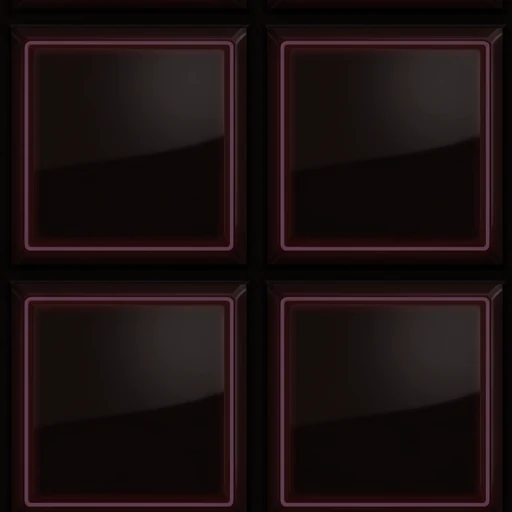
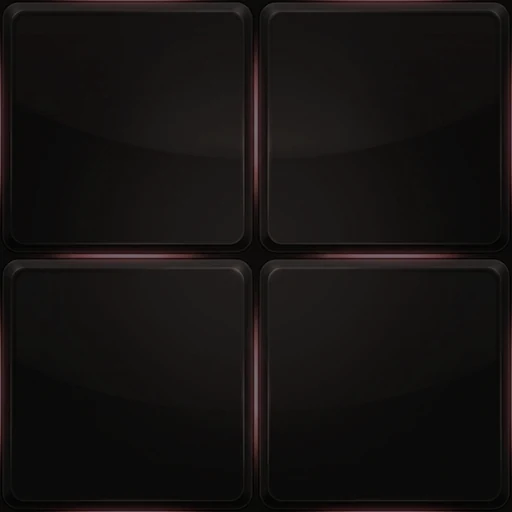
feat: simpler three-shape map, faster tanks and fire rate, new floor art
Map: 10 obstacle rects -> 3 (centre block + one bar of cover per tower). The
corner walls and wall nubs produced collisions you could not see coming on a map
small enough to read in a glance. Still point-symmetric through the centre (the
rune picker mirrors spots through it) and both side lanes run the full height.
Bot waypoints, the fallback RUNE_SPOTS and every smoke coordinate move with it.

Feel: TANK_MAX_SPEED 205 -> 265 px/s (accel/brake scaled with it so the ramp
stays ~79ms), FIRE_COOLDOWN 1.0 -> 0.7s. A clean 3-shell duel is now ~1.4s.

Art: new floor plates generated from the listing icon, 2x2 per tile at 320 world
px so a plate is three tank-widths; red is the blue tile hue-rotated, so the two
halves share one structure. Obstacles darkened to stay behind the sprites.

WIRE_VERSION 3: the map lives in the shared sim, so a stale client would
mispredict every wall. Old pages reload instead.

smoke: the death probe now paths around cover and only fires with line of sight
— driving straight and holding the trigger only ever worked on an empty field.

Changed region(s): [[0.0, 0.0625, 1.0, 1.0], [0.0, 0.0, 1.0, 0.0312]]

diff --git a/server/smoke.js b/server/smoke.js
@@ -432,6 +432,23 @@ async function checkNoRevives(port) {
   // whether bots kill each other inside any given 15s is a coin flip (3-shell
   // kills, 1s cooldown, 5s respawns, shields), and "0 deaths observed" made the
   // whole check vacuous — it failed intermittently for that reason alone.
+  // The probe has to be able to FIGHT on the real map: driving straight at an
+  // enemy and holding the trigger works only on an empty field. With cover in
+  // the middle it grinds into the block and feeds it shells, and the phase then
+  // fails for a reason that has nothing to do with the contract under test.
+  const { OBSTACLES } = await import('../client/shared/sim.js');
+  const losClear = (x1, y1, x2, y2, pad) => {
+    const d = Math.hypot(x2 - x1, y2 - y1);
+    const steps = Math.max(2, Math.ceil(d / 12));
+    for (let i = 0; i <= steps; i++) {
+      const t = i / steps, x = x1 + (x2 - x1) * t, y = y1 + (y2 - y1) * t;
+      for (const r of OBSTACLES) {
+        if (x > r.x - pad && x < r.x + r.w + pad && y > r.y - pad && y < r.y + r.h + pad) return false;
+      }
+    }
+    return true;
+  };
+  let strafeDir = 1, strafeFlipAt = 0;
   const minMs = 12000, maxMs = 40000;
   const t0 = Date.now();
   while (Date.now() - t0 < maxMs && (Date.now() - t0 < minMs || deathsSeen === 0)) {
@@ -448,12 +465,23 @@ async function checkNoRevives(port) {
         if (d < best) { best = d; tx = st.x; ty = st.y; }
       }
       const aim = best < Infinity ? Math.atan2(ty - game.me.y, tx - game.me.x) : 0;
-      const drive = best < Infinity && best > 220;
-      game.tick({
-        moveX: drive ? Math.cos(aim) : 0,
-        moveY: drive ? Math.sin(aim) : 0,
-        firing: best < Infinity,
-      }, aim);
+      // Only shoot when the shell can actually get there — shells die on the
+      // first wall they touch, so blind fire just empties the magazine into
+      // the centre block.
+      const clear = best < Infinity && losClear(game.me.x, game.me.y, tx, ty, 8);
+      let mx = 0, my = 0;
+      if (best < Infinity) {
+        const ax = Math.cos(aim), ay = Math.sin(aim);
+        if (!clear) {
+          // Wall in the way: slide along it to find an angle instead of pushing
+          // into it. The direction flips periodically so a bad guess costs a
+          // second or two rather than the whole window.
+          if (Date.now() > strafeFlipAt) { strafeDir = -strafeDir; strafeFlipAt = Date.now() + 1500; }
+          mx = -ay * strafeDir + ax * 0.35;
+          my = ax * strafeDir + ay * 0.35;
+        } else if (best > 220) { mx = ax; my = ay; }
+      }
+      game.tick({ moveX: mx, moveY: my, firing: clear }, aim);
     }
     const renderMs = game.frame(DT);
     for (const st of game.remoteStates(renderMs, DT)) {
@@ -650,7 +678,7 @@ async function checkRuneSpots() {
   check(!runeSpotClear(OBSTACLES[0].x + OBSTACLES[0].w / 2, OBSTACLES[0].y + OBSTACLES[0].h / 2),
     'a spot inside the centre block is rejected');
   check(!runeSpotClear(TOWERS[0].x, TOWERS[0].y + 100), 'a spot right under a tower is rejected');
-  check(runeSpotClear(220, 760), 'the left lane below the halfway line is legal');
+  check(runeSpotClear(110, 760), 'the left lane below the halfway line is legal');
   // deterministic rand -> deterministic spot; forced spots pass straight through
   const [d1] = pickRuneSpots(() => 0.5); const [d2] = pickRuneSpots(() => 0.5);
   check(d1.x === d2.x && d1.y === d2.y, 'an injected rand makes the pick reproducible');
@@ -687,8 +715,9 @@ async function checkPowers() {
   check(wounded < MAX_HP && P.me().alive, `P wounded by friendly fire before the rune (hp ${wounded})`);
 
   // ---- wave 1: DOUBLE SHOT at BOTH spots ----
-  // Spots are pinned to the old gates ON the halfway line (RUNE_SPOTS_FORCE), in
-  // the gaps flanking the centre box, so every lane below is known-clear. Park
+  // Spots are pinned ON the halfway line out in the two side lanes
+  // (RUNE_SPOTS_FORCE), which run the full height clear of the bars and the
+  // centre block — so every approach used below is known-clear. Park
   // P in the left gate's lane but outside the pickup circle, so the pair is
   // observable in a snapshot before P claims one.
   await goTo(P, RUNE_SPOTS[0].x, 900);
@@ -727,8 +756,8 @@ async function checkPowers() {
   check(P.me().power === POWER.NONE, 'a power lapses after 7 seconds');
 
   // ---- wave 2: SHIELD (P camps the same gate — both fill every wave) ----
-  // Enemy straight up the same lane from the gate: a clear line of fire with no
-  // obstacle between (the crossbar spans x 260-460, this lane is x=220).
+  // Enemy straight up the same lane from the rune: a clear line of fire with no
+  // obstacle between (the bars span x 210-510, this lane is x=120).
   await goTo(V, RUNE_SPOTS[0].x, RUNE_SPOTS[0].y - 240);
   guard = 0;
   while (P.me().power !== POWER.SHIELD && guard++ < 80) await P.drive(12, 0, 0);
@@ -1244,7 +1273,7 @@ async function main() {
   // Runes pinned so checkPowers() meets DOUBLE -> SHIELD -> OVERDRIVE -> POWER
   // SHOT at gate 0 in that order; live waves are random (checkRuneRoll covers
   // the roll). Each pair is two different kinds, as the real roll guarantees.
-  const srv = await startServer(PORT, { BOTS: '0', RUNE_FORCE: '1:2,2:1,4:3,3:4', RUNE_SPOTS_FORCE: '220:640,500:640' });
+  const srv = await startServer(PORT, { BOTS: '0', RUNE_FORCE: '1:2,2:1,4:3,3:4', RUNE_SPOTS_FORCE: '120:640,600:640' });
 
   try {
     // ---- join ----
@@ -1289,13 +1318,13 @@ async function main() {
     const ackGap = (A.seq - A.snap.lastAckSeq + 65536) % 65536;
     check(ackGap <= 3, `input ack tracks seq (gap ${ackGap})`);
 
-    // ---- position for a clear VERTICAL shot down the left lane (x≈200) ----
-    // The centre line is blocked by the cross-bars, centre block and both
-    // towers, but the lane between the wall nubs (x 160..240) runs clear from
-    // y≈250 to y≈1030. A (BLUE) spawns bottom-left, B (RED) top-right; both
+    // ---- position for a clear VERTICAL shot down the left lane (x≈110) ----
+    // The centre line is blocked by the two bars, the centre block and both
+    // towers, but the left lane (everything below x=210) runs clear the full
+    // height of the arena. A (BLUE) spawns bottom-left, B (RED) top-right; both
     // slide into the lane and close to ~290px, well inside the shell's range.
-    check(await goTo(A, 200, 870), 'A reached the lane firing position');
-    check(await goTo(B, 200, 580), 'B reached the lane firing position');
+    check(await goTo(A, 110, 870), 'A reached the lane firing position');
+    check(await goTo(B, 110, 580), 'B reached the lane firing position');
     await sleep(150);
     const aPos = A.me(), bPos = B.me();
     console.log(`  A at (${Math.round(aPos.x)},${Math.round(aPos.y)}) B at (${Math.round(bPos.x)},${Math.round(bPos.y)})`);
@@ -1341,8 +1370,11 @@ async function main() {
     while (A.snap.towerHp[RED] > 0 && guard++ < siegeSteps) {
       const a = A.me();
       if (!a || !a.alive) { await A.drive(6, 0, 0); continue; }   // wait out respawn
-      if (Math.abs(a.x - 200) > 22) { await A.drive(6, Math.sign(200 - a.x), 0); continue; }
-      if (a.y > 345) { await A.drive(6, 0, -1); continue; }       // up the lane into range
+      if (Math.abs(a.x - 110) > 22) { await A.drive(6, Math.sign(110 - a.x), 0); continue; }
+      // Climb until the tower is genuinely inside TOWER_RANGE (330px). From the
+      // left lane that is y<=300: at y=345 the range check is a coin flip and
+      // the tower may never return fire, which the siege assertions depend on.
+      if (a.y > 300) { await A.drive(6, 0, -1); continue; }       // up the lane into range
       await A.drive(6, 0, 0, true, Math.atan2(130 - a.y, 360 - a.x));
       if (A.snap.towerHp[RED] < TOWER_HP) sawDamage = true;
       if (!sawTowerFire) sawTowerFire = A.ev('fire').some((e) => e.id >= TOWER_OWNER_BASE);

diff --git a/client/shared/protocol.js b/client/shared/protocol.js
@@ -17,9 +17,12 @@ export const TANK_RADIUS = 26;
 // 186 ms to coast to a stop — that ramp on both ends is exactly the "driving on
 // ice" complaint. 81 ms to full speed reads as instant without feeling twitchy,
 // and a much harder brake means releasing the stick stops you in ~50 ms/5 px.
-export const TANK_MAX_SPEED = 205;      // px/s (~3.5 s to cross the arena)
-export const TANK_ACCEL = 2600;         // px/s^2 toward target velocity
-export const TANK_BRAKE = 4200;         // px/s^2 when releasing input (asymmetric)
+export const TANK_MAX_SPEED = 265;      // px/s (~2.7 s to cross the arena)
+export const TANK_ACCEL = 3350;         // px/s^2 toward target velocity
+export const TANK_BRAKE = 5400;         // px/s^2 when releasing input (asymmetric)
+// Accel and brake are scaled WITH the top speed on purpose. Raising only the
+// ceiling buys a longer ramp, not a faster tank: the ~79 ms to full speed and
+// the ~50 ms stop are the numbers that actually read as responsive.
 export const HULL_TURN_RATE = 16;       // rad/s hull visually turns toward velocity
 export const MAX_HP = 100;
 
@@ -45,12 +48,15 @@ export const BULLET_DAMAGE = 34;        // 3 shells to kill. Raised from 28 (4 s
                                         // stopped resolving. Three keeps a fight
                                         // decidable without making a shot cheap.
 export const OWNER_GRACE = 0.22;        // s a bullet cannot hit its owner (bounce-backs can)
-export const FIRE_COOLDOWN = 1.0;       // s between shots. One shot per second makes
-                                        // every trigger pull a decision you commit to
-                                        // rather than a stream you hose around — but
-                                        // it is a HARD balance lever: see TOWER_HP and
-                                        // MAG_SIZE below, both of which were sized
-                                        // against the old ~6 shots/s.
+export const FIRE_COOLDOWN = 0.7;       // s between shots. Still slow enough that a
+                                        // trigger pull is a decision you commit to,
+                                        // not a stream you hose around, but 1.0 s made
+                                        // a miss cost a full second of standing there
+                                        // — punishing on a map you can now cross in
+                                        // 2.7 s. At 3 shells to kill this puts a clean
+                                        // duel at ~1.4 s. It is a HARD balance lever:
+                                        // see TOWER_HP and MAG_SIZE, both sized
+                                        // against the shot rate.
 // Magazine: five fast shots, then a real reload. The pause is what gives the
 // volley a shape — without it, held fire is an undifferentiated stream.
 export const MAG_SIZE = 5;
@@ -129,11 +135,12 @@ export const SPEED_MULT = 1.55;         // 205 -> ~318 px/s
 export const RUNE_MARGIN = 60;
 export const RUNE_CLEARANCE = 60;       // TANK_RADIUS + RUNE_RADIUS + 12
 export const RUNE_TOWER_GAP = 190;
-// The old fixed gates — the gaps flanking the centre box on the halfway line.
+// A known-good mirrored pair on the halfway line, out in the two side lanes.
 // Kept as the fallback if a random pick fails every attempt (it cannot on this
 // map; belt and braces for a future layout) and as the pin the deterministic
-// smoke phase uses via RUNE_SPOTS_FORCE.
-export const RUNE_SPOTS = [{ x: 220, y: ARENA_H / 2 }, { x: 500, y: ARENA_H / 2 }];
+// smoke phase uses via RUNE_SPOTS_FORCE. Must satisfy runeSpotClear() — the
+// old pair sat at x 220/500, which the wider centre block now covers.
+export const RUNE_SPOTS = [{ x: 120, y: ARENA_H / 2 }, { x: 600, y: ARENA_H / 2 }];
 
 // ---- Teams ----
 export const TEAM_COUNT = 2;            // 0 = BLUE (bottom half), 1 = RED (top half)
@@ -169,7 +176,7 @@ export const INTERP_DELAY_MS = 100;     // remote entities rendered this far in 
 // a server on a different version answers `stale` and closes, and the page
 // reloads itself — a cached client must never decode a layout it does not know
 // (the symptom is tanks teleporting around the arena, not an error).
-export const WIRE_VERSION = 2;
+export const WIRE_VERSION = 3;
 export const MSG = {
   // client -> server
   INPUT: 1,

diff --git a/client/js/render.js b/client/js/render.js
@@ -41,7 +41,9 @@ const TURRET_PIVOT = [{ x: 35.2, y: 36.5 }, { x: 33.1, y: 33.4 }];
 const TURRET_SCALE = [0.403, 0.426];
 const TOWER_W = 92;                   // TOWER_RADIUS 44 → octagon 88 + rim
 const CRATE_W = 46;                   // RUNE_RADIUS 22
-const TILE_WORLD = 160;               // one tile image = 2x2 tiles of the 80px grid
+const TILE_WORLD = 320;               // one tile image = 2x2 floor plates of 160 world px.
+                                      // Must divide ARENA_H/2 exactly (640/320 = 2) or the
+                                      // blue/red split would cut a plate in half.
 
 // Every fillStyle/strokeStyle assignment re-parses the CSS colour string, and
 // shade()/rgba() were rebuilding those strings ~14 times a frame. There are
@@ -178,10 +180,11 @@ export class Renderer {
     // arena a shape before a single sprite is drawn.
     const tiles = this.sprites.tile;
     if (tiles[0] && tiles[1]) {
-      // The icon's floor: glossy bevelled tiles, BLUE on the bottom half (team 0)
-      // and RED on the top, so territory reads from the ground itself. One image
-      // is 2x2 tiles of the 80px grid, so the seams land exactly on the grid
-      // lines and the halfway line (y=640) is a tile edge.
+      // Big glossy plates, BLUE on the bottom half (team 0) and RED on the top, so
+      // territory reads from the ground itself. Deliberately coarse: at 160 world
+      // px a plate is three tank-widths, which keeps the floor a backdrop instead
+      // of the busy small-tile grid that competed with the sprites on it. The
+      // halfway line (y=640) lands exactly on a plate edge.
       const half = ARENA_H / 2;
       for (const t of [0, 1]) {
         const pat = g.createPattern(tiles[t], 'repeat');
@@ -237,13 +240,16 @@ export class Renderer {
       g.fillStyle = 'rgba(0,0,0,0.45)';
       g.fillRect(r.x + 3, r.y + 5, r.w, r.h);
       const og = g.createLinearGradient(r.x, r.y, r.x, r.y + r.h);
-      og.addColorStop(0, '#5a6478');
-      og.addColorStop(0.5, '#3a4356');
-      og.addColorStop(1, '#232a3a');
+      // Kept a step darker than it wants to be: with only three rects left on a
+      // dim floor, a mid-grey slab becomes the brightest thing on screen and
+      // pulls the eye off the tanks. Cover should read as mass, not as a light.
+      og.addColorStop(0, '#39415a');
+      og.addColorStop(0.5, '#252b3e');
+      og.addColorStop(1, '#151a28');
       g.fillStyle = og;
       g.fillRect(r.x, r.y, r.w, r.h);
       // bevel: light top/left, dark bottom/right
-      g.fillStyle = 'rgba(255,255,255,0.22)';
+      g.fillStyle = 'rgba(255,255,255,0.13)';
       g.fillRect(r.x, r.y, r.w, 3);
       g.fillRect(r.x, r.y, 3, r.h);
       g.fillStyle = 'rgba(0,0,0,0.35)';

diff --git a/client/shared/sim.js b/client/shared/sim.js
@@ -10,27 +10,30 @@ import {
 } from './protocol.js';
 
 // ---- Map: axis-aligned obstacle rects ----
-// Layout for the 720x1280 single-screen arena, mirrored about BOTH axes so no
-// spawn corner has an advantage. The side lanes at x~200 and x~520 run the full
-// height unobstructed, which keeps long-range duels possible on a small map.
-// Lane width matters more than it looks: the gap must clear the 52px tank AND
-// leave room to steer. At 120px (nub ends x140, cross-bar starts x260) the
-// tank's centre has a ~68px window — narrow it further and the lane starts
-// catching corners on every pass.
+// THREE shapes, and that is the whole map: a block in the middle, and one bar of
+// cover in front of each tower. It reads in one glance from across a phone
+// screen, which the previous ten-rect layout did not — four corner walls and two
+// wall nubs added collisions nobody could see coming and lanes nobody could
+// name. Everything that layout was for is still here: the middle is contested
+// (the block), a tower has cover to fight from (the bars), and both side lanes
+// run the full height for long-range duels.
+//
+// Point-symmetric through the arena centre — every rect maps onto another under
+// (x,y) -> (ARENA_W-x, ARENA_H-y). That is not decoration: the two teams see the
+// same map from opposite ends, and the rune picker mirrors a spot through the
+// centre to place RED's twin (server/runes.js), which is only fair on a map with
+// this symmetry. Keep it if you edit these.
+//
+// Lane widths, since they are what makes or breaks driving: the bars span
+// x 210-510 and the block x 260-460, so each side lane gives a 26px-radius tank
+// a ~158px window for its centre — wide enough to take at speed without
+// clipping corners.
 export const OBSTACLES = [
-  // center block
-  { x: 300, y: 600, w: 120, h: 80 },
-  // horizontal cross-bars above and below center
-  { x: 260, y: 380, w: 200, h: 44 },
-  { x: 260, y: 856, w: 200, h: 44 },
-  // vertical side walls (four corners)
-  { x: 70, y: 200, w: 40, h: 170 },
-  { x: 610, y: 200, w: 40, h: 170 },
-  { x: 70, y: 910, w: 40, h: 170 },
-  { x: 610, y: 910, w: 40, h: 170 },
-  // mid-height nubs jutting in from the left/right walls
-  { x: 40, y: 618, w: 100, h: 44 },
-  { x: 580, y: 618, w: 100, h: 44 },
+  // centre block — the one feature in the middle
+  { x: 260, y: 580, w: 200, h: 120 },
+  // one bar of cover in front of each tower
+  { x: 210, y: 370, w: 300, h: 50 },
+  { x: 210, y: 860, w: 300, h: 50 },
 ];
 
 // ---- Towers: one per team, the match objective ----

diff --git a/server/bot.js b/server/bot.js
@@ -135,12 +135,13 @@ function losClear(x1, y1, x2, y2, skipTower = -1) {
 // small and static, so a fixed waypoint graph is both cheaper and far better
 // behaved than any amount of local avoidance.
 //
-// Nodes sit in the two clear lanes, in the gaps between the cross-bars and the
-// centre block, and on the approach to each tower.
+// Nodes sit in the two side lanes (x 110 / 610 — clear of the bars at x 210-510
+// and the centre block at x 260-460) and up the centre column in the gaps
+// between those three rects, including the approach to each tower.
 const NODES = [
-  { x: 200, y: 180 }, { x: 200, y: 430 }, { x: 200, y: 640 }, { x: 200, y: 850 }, { x: 200, y: 1100 },
-  { x: 520, y: 180 }, { x: 520, y: 430 }, { x: 520, y: 640 }, { x: 520, y: 850 }, { x: 520, y: 1100 },
-  { x: 360, y: 230 }, { x: 360, y: 500 }, { x: 360, y: 780 }, { x: 360, y: 1050 },
+  { x: 110, y: 180 }, { x: 110, y: 480 }, { x: 110, y: 640 }, { x: 110, y: 800 }, { x: 110, y: 1100 },
+  { x: 610, y: 180 }, { x: 610, y: 480 }, { x: 610, y: 640 }, { x: 610, y: 800 }, { x: 610, y: 1100 },
+  { x: 360, y: 250 }, { x: 360, y: 500 }, { x: 360, y: 780 }, { x: 360, y: 1030 },
 ];
 
 // Can a TANK travel this segment without clipping anything?

diff --git a/README.md b/README.md
@@ -1,13 +1,23 @@
 # TANK
 
 Realtime **2v2 tower-destruction** tank arena for mobile: **tilt your phone to drive,
-touch to aim & shoot** (a joystick takes over if motion access is denied). Instant respawns, bouncing shells. Ships as a **Usion
-direct-mode game** — identity, rooms, and invites come from the platform; the
+touch to aim & shoot** (a joystick takes over if motion access is denied). Fast
+tanks (265 px/s, ~2.7 s to cross the arena), a shot every 0.7 s, instant
+respawns. Ships as a **Usion direct-mode game** — identity, rooms, and invites come from the platform; the
 client talks binary WebSocket straight to this authoritative server (zero relay hop).
 
 The arena is a single **720x1280 portrait screen**. The whole map is visible at
 all times — the camera never moves, only the tanks do, so there is no scrolling
 and no off-screen threat.
+
+**The map is three shapes**: a block in the middle, and one bar of cover in front
+of each tower (`client/shared/sim.js` `OBSTACLES`). That is deliberate — the
+previous ten-rect layout added corner walls and wall nubs that produced
+collisions you could not see coming, on a map small enough to read in a glance.
+Both side lanes (everything outside x 210-510) run the full height of the arena,
+so long-range duels and a fast flank are both still on. The layout is
+**point-symmetric** through the arena centre: the two teams see the same map from
+opposite ends, and the rune picker relies on that symmetry to mirror spots.
 
 ## Match rules
 
@@ -30,7 +40,7 @@ and no off-screen threat.
   game: the old always-2v2 fill gave a lone player a `rush` teammate whose
   designed job is to trade its life, so they spent ~40% of the match effectively
   1-v-2 while that teammate sat in respawn.
-- **Each team has a tower.** Destroy the enemy tower (400 HP, 12 shells) and your
+- **Each team has a tower.** Destroy the enemy tower (560 HP, ~17 shells) and your
   team wins the match; it restarts automatically after 6 s. Kills are pressure,
   not the objective.
 - **Towers shoot back.** A tower auto-acquires the nearest living enemy tank
